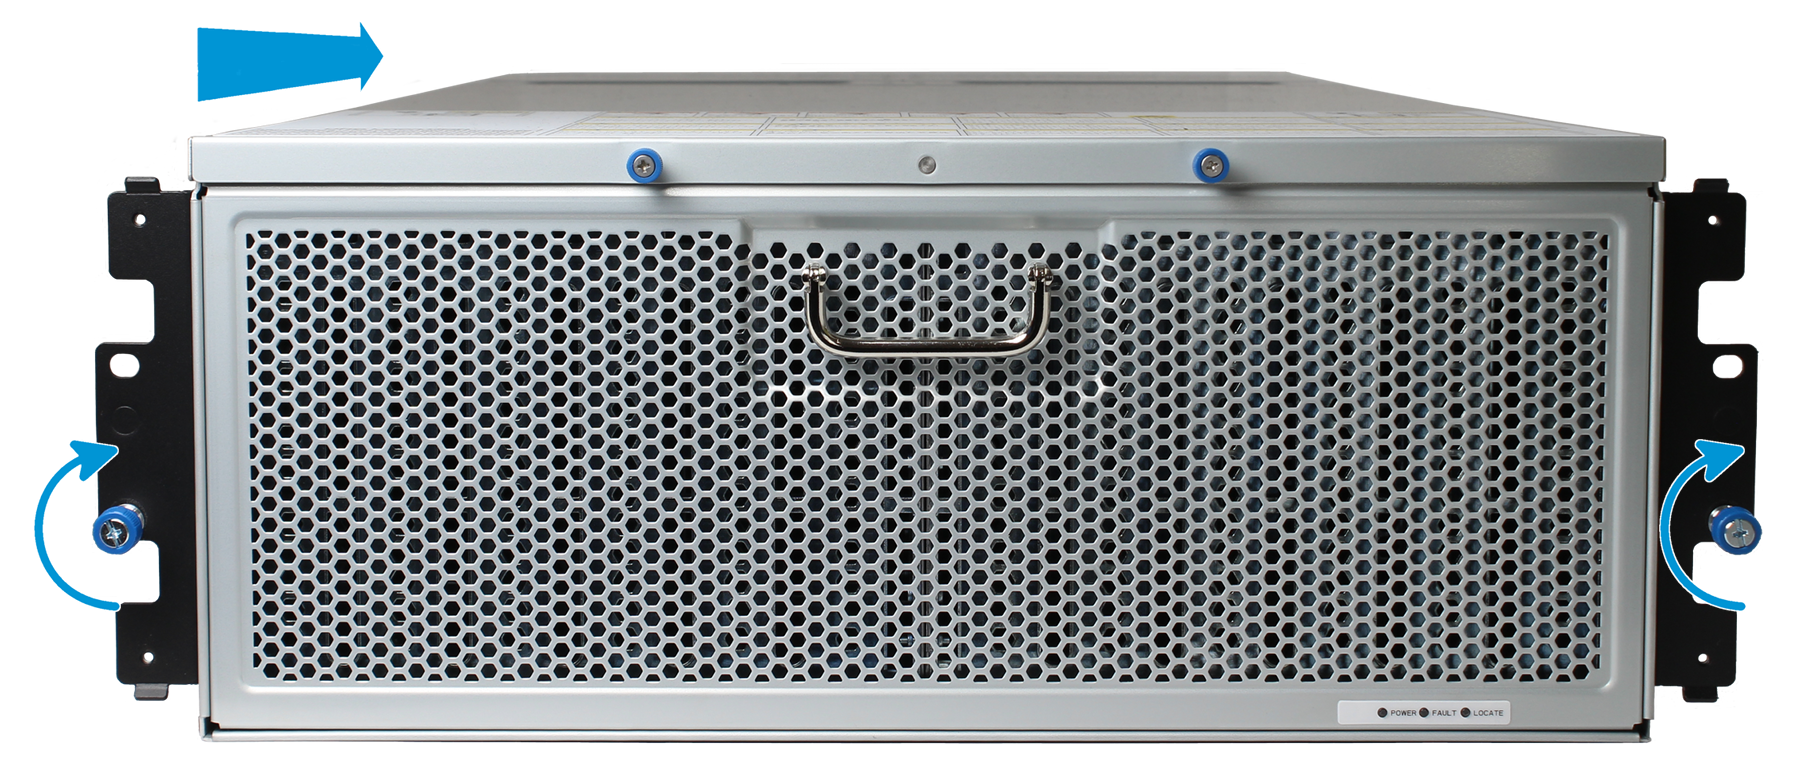
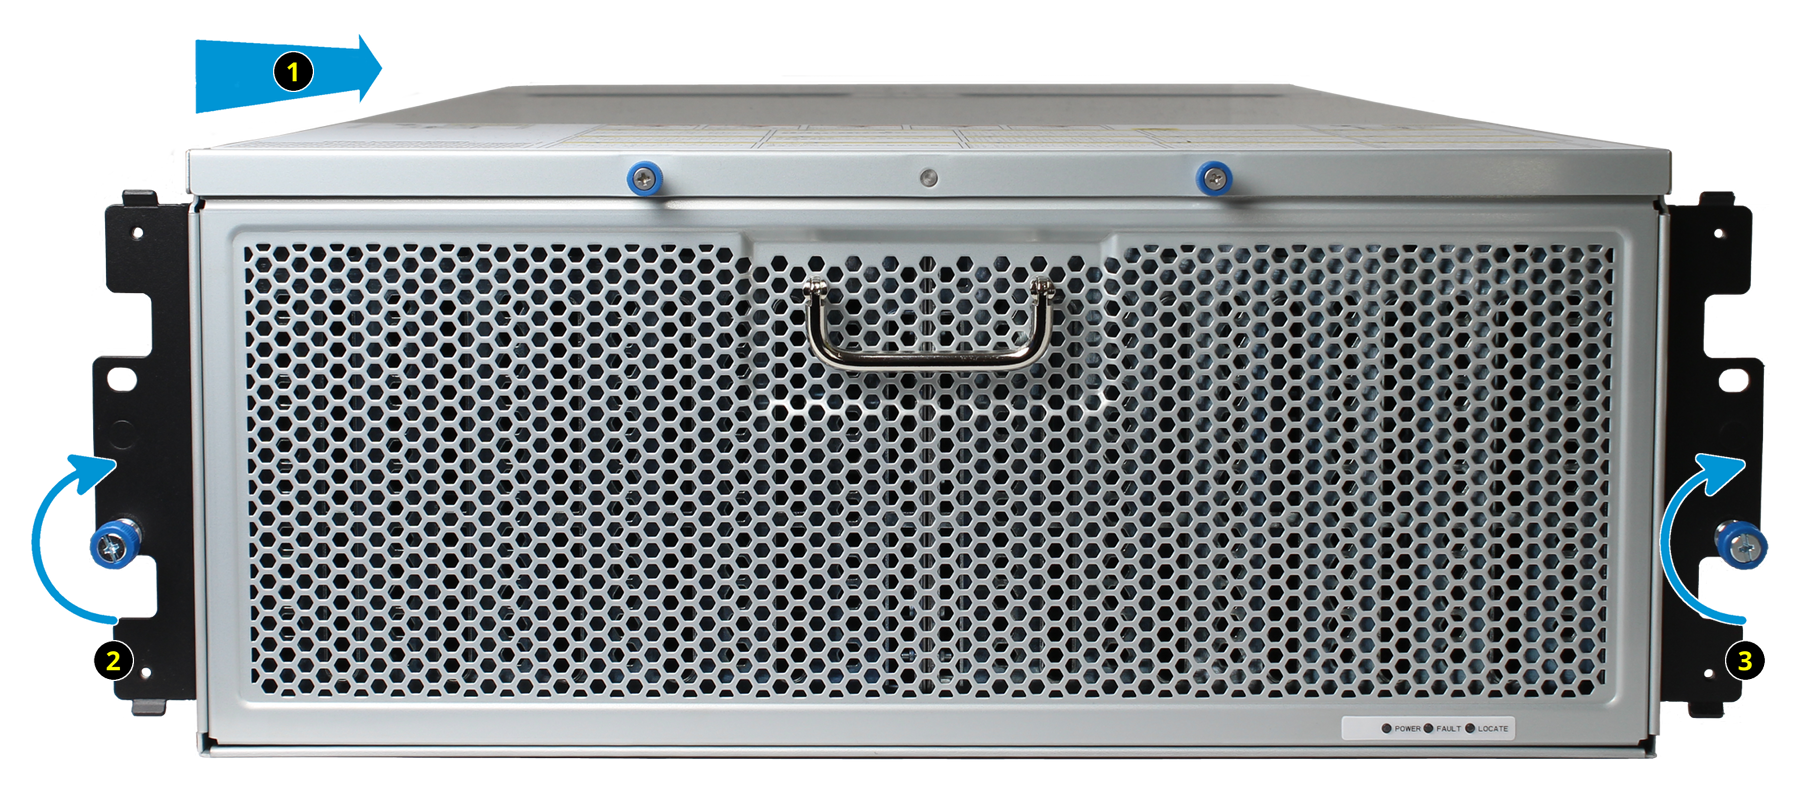
Add most of the remaining ES60 images

diff --git a/userguide/snippets/es60.rst b/userguide/snippets/es60.rst
@@ -220,9 +220,33 @@ Expansion Shelf may be powered on at any time.
 Connect SAS Cables
 ~~~~~~~~~~~~~~~~~~
 
-Shut down and power off the ES60.
+Shut down and power off the %brand% X series. Remove the X series
+power cables from the power outlets.
 
-.. <more text required, see Wiring Guide>
+Plug the ES60 power cords into power outlets.
+**Wait two minutes for the drives to start.**
+
+Connect an SAS cable from the ES60 expander module 1 connector 1 to
+the X series node 1 SAS 1 connector (cable #1 in photo).
+
+If the X series has a second node for HA (High Availability), connect
+a second SAS cable from the ES60 expander module 2 connector 1 to the
+X series node 2 SAS 1 connector (cable #2 in photo).
+
+
+.. _es60_sasconnect1:
+.. figure:: images/tn_es60_sasconnect1.png
+   :width: 50%
+
+
+A second ES60 can also be connected to the X series. Connect the first
+ES60 as shown above. Then connect the second ES60, running SAS cables
+from the "2" connectors on the ES60 to the SAS 2 connectors on the X
+series.
+
+.. _es60_sasconnect2:
+.. figure:: images/tn_es60_sasconnect2.png
+   :width: 50%
 
 
 Install Bezel (Optional)
